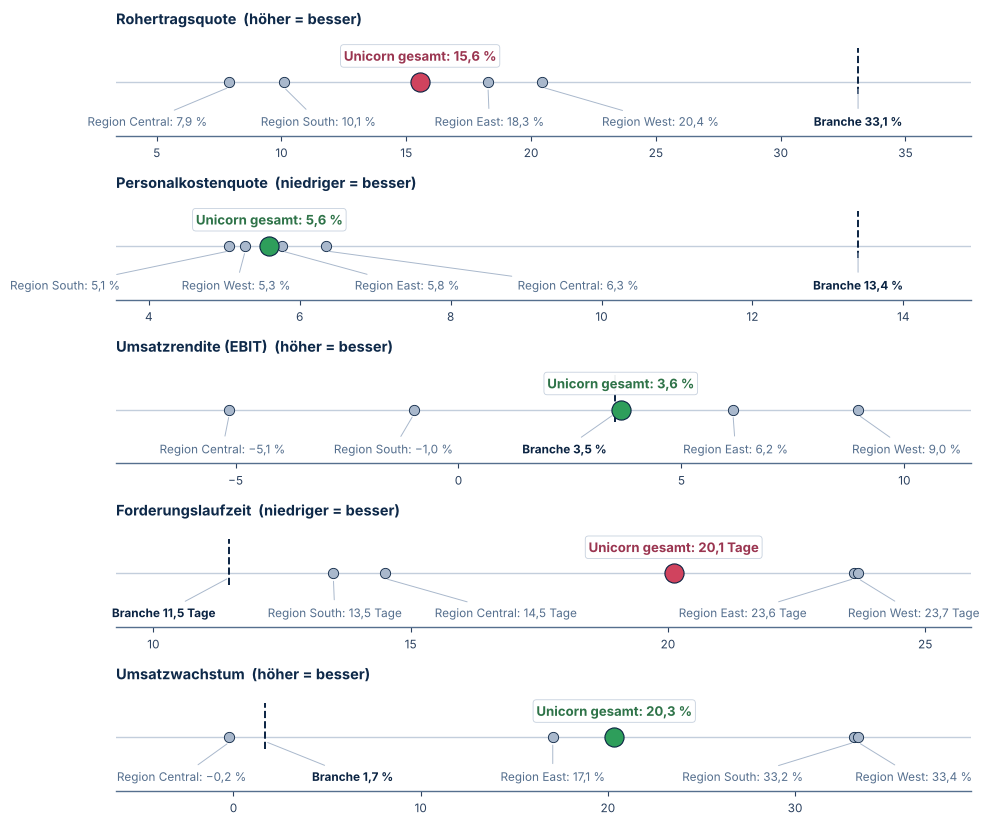
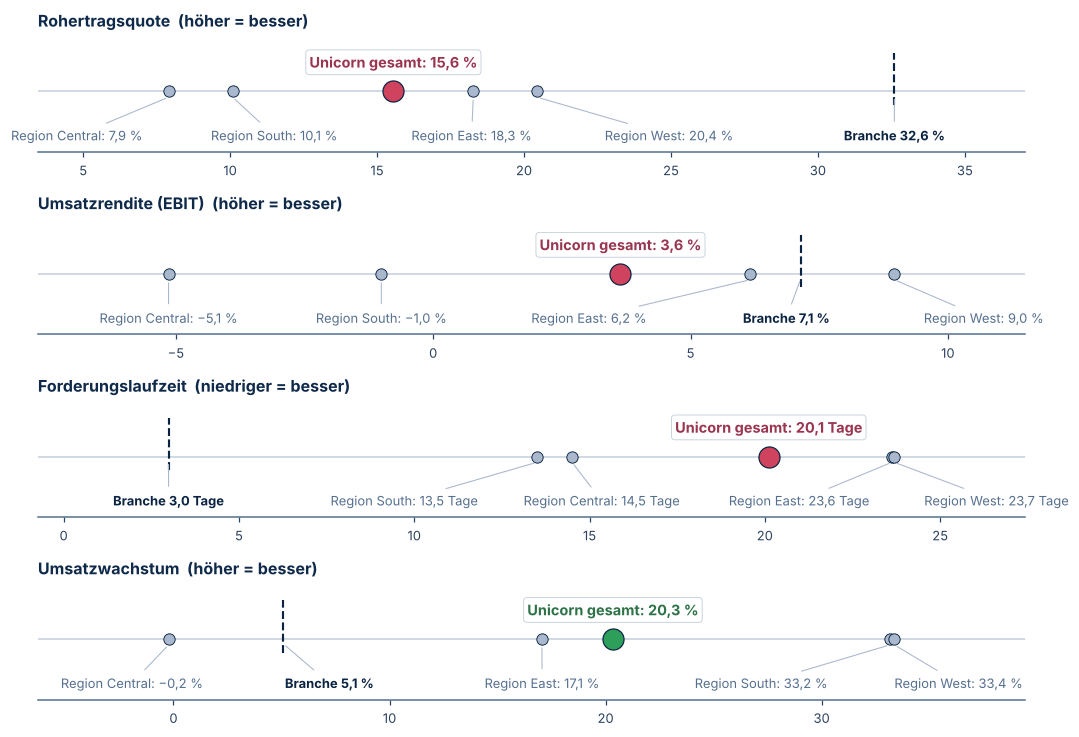
Benchmark: US-Einzelhandel (U.S. Census Bureau) statt deutscher Einzelhandel
Unicorn ist ein US-Händler, der Vergleich kommt jetzt aus dem Annual Retail Trade
Survey 2018 (Einzelhandel ohne Autohandel), gleiche Jahre wie die Daten (2015-2018).
Kennzahlen: Rohertragsquote, Umsatzrendite (Rohertrag - Betriebskosten), Forderungs-
laufzeit, Umsatzwachstum. Die Personalkostenquote entfällt, weil der Survey sie nicht
jährlich veröffentlicht. App-Texte, Tests, README, Kennzahlen-Doku und Benchmark-Bilder
angepasst.

Claude-Session: https://claude.ai/code/session_0162dXhNYju1JhCPYcZMk4fs

diff --git a/app.py b/app.py
@@ -256,10 +256,10 @@ def startseite(zug: dict):
            f"EBIT {L.geld(pf.loc[sw, 'ebit'])}, cash {L.geld(pf.loc[sw, 'kontostand'])}, down to "
            f"{L.geld(pf.loc[sw, 'liq_min'])} within 13 weeks.")),
         (T("Kunden zahlen langsam", "Customers pay slowly"),
-         T(f"Die Forderungslaufzeit liegt bei {L.zahl(dso.gesamt, 1)} Tagen, der Einzelhandel schafft "
-           f"{L.zahl(dso.branche, 1)} Tage (Bundesbank). Einzelne Geschäftskunden zahlen zuletzt 30–60 Tage später.",
+         T(f"Die Forderungslaufzeit liegt bei {L.zahl(dso.gesamt, 1)} Tagen, der US-Einzelhandel schafft "
+           f"{L.zahl(dso.branche, 1)} Tage (U.S. Census Bureau). Einzelne Geschäftskunden zahlen zuletzt 30–60 Tage später.",
            f"Days sales outstanding are {L.zahl(dso.gesamt, 1)} days vs. {L.zahl(dso.branche, 1)} days for "
-           f"German retail (Bundesbank). Some business customers recently pay 30–60 days later.")),
+           f"US retail (U.S. Census Bureau). Some business customers recently pay 30–60 days later.")),
     ]
     for spalte, (titel, text) in zip(c, karten):
         spalte.markdown(f'<div class="kachel" style="border-color:{ORANGE}"><div class="wert" style="white-space:normal;'
@@ -331,12 +331,12 @@ def startseite(zug: dict):
         "- **Daten:** fiktiver Übungsdatensatz (Tableau Sample Superstore, im Masterschool-Kurs als SQL-Datenbank "
         "„Unicorn“), 9.997 Auftragspositionen 2015–2018. Plan, Fixkosten und Zahlungen sind dazu simuliert.\n"
         "- **Werkzeuge:** SQL, Python, pandas, matplotlib, Streamlit; Power BI Desktop per DAX (lokal); automatische Tests mit pytest\n"
-        "- **Branchenwerte:** Deutsche Bundesbank, Jahresabschlussstatistik Einzelhandel\n"
+        "- **Branchenwerte:** U.S. Census Bureau, Annual Retail Trade Survey (US-Einzelhandel)\n"
         "- **Datenschutz:** Rollen mit Passwort-Hash, Pseudonymisierung der Kundennamen, in der Demo wird nichts gespeichert",
         "- **Data:** fictional training dataset (Tableau Sample Superstore, used as the SQL database “Unicorn” in the "
         "Masterschool course), 9,997 order lines 2015–2018. Plan, fixed costs and payments are simulated on top.\n"
         "- **Tools:** SQL, Python, pandas, matplotlib, Streamlit; Power BI Desktop via DAX (local); automated tests with pytest\n"
-        "- **Industry values:** Deutsche Bundesbank, financial statements statistics for retail\n"
+        "- **Industry values:** U.S. Census Bureau, Annual Retail Trade Survey (US retail)\n"
         "- **Privacy:** roles with password hashing, customer-name pseudonymisation, nothing is stored in the demo"))
     st.caption(T("Projekt von Denise Tirrel · Alle Unternehmens- und Kundendaten sind fiktiv.",
                  "Project by Denise Tirrel · All company and customer data are fictional."))
@@ -1231,10 +1231,10 @@ def benchmark_seite():
         namen = {m: f"Region {m}" for m in L.mandanten(D_GESAMT)}
         kopf("Unicorn · " + T("Vergleich", "Comparison"), "Benchmark")
     von = (s - pd.DateOffset(months=12) + pd.Timedelta(days=1))
-    st.caption(T(f"{name}: letzte 12 Monate ({L.datum(von)}–{L.datum(s)}) gegen den deutschen Einzelhandel "
-                 f"{b['jahr']} (Bundesbank) und gegen " + ("die anderen Mandanten (anonym)." if MANDANT else "die vier Regionen."),
-                 f"{name}: last 12 months ({L.datum(von)}–{L.datum(s)}) vs. German retail {b['jahr']} "
-                 f"(Deutsche Bundesbank) and vs. " + ("the other clients (anonymised)." if MANDANT else "the four regions.")))
+    st.caption(T(f"{name}: letzte 12 Monate ({L.datum(von)}–{L.datum(s)}) gegen den US-Einzelhandel "
+                 f"{b['jahr']} (U.S. Census Bureau) und gegen " + ("die anderen Mandanten (anonym)." if MANDANT else "die vier Regionen."),
+                 f"{name}: last 12 months ({L.datum(von)}–{L.datum(s)}) vs. US retail {b['jahr']} "
+                 f"(U.S. Census Bureau) and vs. " + ("the other clients (anonymised)." if MANDANT else "the four regions.")))
     if s.year != b["jahr"]:
         st.info(T(f"Für {s.year} liegen keine passenden Branchenwerte vor; verglichen wird mit {b['jahr']}.",
                   f"No industry values are available for {s.year}; comparing with {b['jahr']}."), icon="ℹ")
@@ -1261,35 +1261,32 @@ def benchmark_seite():
     with st.expander(T("Woher kommen die Branchenwerte, und wie vergleichbar ist das?",
                        "Where do the industry values come from, and how comparable are they?")):
         st.markdown(T(
-            f"**Quelle:** {L.BRANCHE_QUELLE}. Hochgerechnete Werte für alle Unternehmen der Branche.  \n"
-            "**Rohertragsquote:** bei uns (Umsatz − Wareneinsatz) / Umsatz; Branche: 100 % − Materialaufwand "
-            "(in % der Gesamtleistung).  \n"
-            "**Personalkostenquote:** Personalkosten / Umsatz. Achtung: Unicorn ist inhabergeführt, der "
-            "Unternehmerlohn fehlt in den Personalkosten. Die Quote sieht dadurch besser aus, als sie ist.  \n"
-            "**Umsatzrendite:** bei uns EBIT / Umsatz, Branche: Jahresergebnis vor Gewinnsteuern / Umsatz. "
-            "Auch hier fehlt bei uns der Unternehmerlohn.  \n"
-            "**Forderungslaufzeit:** offene Forderungen am Stichtag / Umsatz × 365; Branche: Forderungen aus "
-            "Lieferungen und Leistungen / Umsatz × 365.  \n"
+            f"**Quelle:** {L.BRANCHE_QUELLE}. Hochgerechnete Werte für alle US-Einzelhändler ohne "
+            "Autohandel, im selben Zeitraum wie die Unicorn-Daten (2015–2018).  \n"
+            "**Rohertragsquote:** bei uns (Umsatz − Wareneinsatz) / Umsatz; Branche: Gross margin in % vom Umsatz.  \n"
+            "**Umsatzrendite:** bei uns EBIT / Umsatz; Branche: Rohertragsquote − Betriebskosten / Umsatz "
+            "(operative Marge). Bei uns fehlt der Unternehmerlohn, die Quote sieht dadurch besser aus, als sie ist.  \n"
+            "**Forderungslaufzeit:** offene Forderungen am Stichtag / Umsatz × 365; Branche: Forderungen am "
+            "Jahresende / Umsatz × 365. Im US-Einzelhandel zahlen fast alle Kunden sofort per Karte; Unicorn hat "
+            "dagegen Geschäftskunden mit 14 bzw. 30 Tagen Zahlungsziel.  \n"
             "**Umsatzwachstum:** letzte 12 Monate gegen die 12 Monate davor; Branche: Jahresumsatz gegen Vorjahr.  \n\n"
-            "**Grenzen:** Unicorn ist ein US-Händler mit Werten in Dollar, die Branche ist der deutsche "
-            "Einzelhandel in Euro. Quoten sind trotzdem vergleichbar, Beträge nicht. Fixkosten sind bei den "
-            "Mandanten per Umlage verteilt; Unterschiede in Personal- und Fixkostenquote kommen daher nur aus "
-            "unterschiedlicher Planerfüllung. Plan, Fixkosten und Zahlungsziele sind simuliert.",
-            f"**Source:** {L.BRANCHE_QUELLE} (Deutsche Bundesbank, financial statements statistics, extrapolated "
-            "figures for all companies in German retail excl. motor vehicles).  \n"
-            "**Gross margin:** ours (revenue − cost of goods) / revenue; industry: 100% − cost of materials "
-            "(% of total output).  \n"
-            "**Staff cost ratio:** staff costs / revenue. Note: Unicorn is owner-managed and the owner's salary "
-            "is not in staff costs, so the ratio looks better than it is.  \n"
-            "**EBIT margin:** ours EBIT / revenue; industry: profit before income taxes / revenue. The owner's "
-            "salary is missing here too.  \n"
-            "**Days sales outstanding:** open receivables at the reporting date / revenue × 365; industry: trade "
-            "receivables / revenue × 365.  \n"
-            "**Revenue growth:** last 12 months vs. the 12 months before; industry: annual revenue vs. prior year.  \n\n"
-            "**Limits:** Unicorn is a US retailer reporting in dollars; the industry is German retail in euros. "
-            "Ratios are still comparable, amounts are not. Fixed costs are allocated to clients by planned revenue, "
-            "so differences in staff and fixed-cost ratios only reflect plan attainment. Plan, fixed costs and "
-            "payment terms are simulated."))
+            "**Grenzen:** Die Branche umfasst große und kleine Händler, Unicorn ist ein kleiner Online-Händler. "
+            "Betriebskosten und Forderungen erhebt der Census nur für Firmen mit Angestellten. Eine "
+            "Personalkostenquote veröffentlicht der Survey nicht jährlich, deshalb fehlt sie hier. Fixkosten "
+            "sind bei den Mandanten per Umlage verteilt. Plan, Fixkosten und Zahlungsziele sind simuliert.",
+            f"**Source:** {L.BRANCHE_QUELLE}. Estimates for all US retailers excl. motor vehicle dealers, "
+            "for the same period as the Unicorn data (2015–2018).  \n"
+            "**Gross margin:** ours (revenue − cost of goods) / revenue; industry: gross margin as % of sales.  \n"
+            "**EBIT margin:** ours EBIT / revenue; industry: gross margin − operating expenses / sales "
+            "(operating margin). The owner's salary is missing on our side, so the ratio looks better than it is.  \n"
+            "**Days sales outstanding:** open receivables at the reporting date / revenue × 365; industry: "
+            "year-end accounts receivable / sales × 365. In US retail almost every customer pays by card at once; "
+            "Unicorn also has business customers with 14 or 30 days payment terms.  \n"
+            "**Revenue growth:** last 12 months vs. the 12 months before; industry: annual sales vs. prior year.  \n\n"
+            "**Limits:** The industry covers large and small retailers, Unicorn is a small online retailer. "
+            "The Census collects operating expenses and receivables only for firms with paid employees. The survey "
+            "does not publish a staff cost ratio every year, so it is left out here. Fixed costs are allocated "
+            "to clients by planned revenue. Plan, fixed costs and payment terms are simulated."))
 
 
 # ------------------------------------------------------------------ Schritt 0: Daten aufbereiten

diff --git a/logik.py b/logik.py
@@ -644,37 +644,39 @@ def mandant_daten(d: Daten, region: str) -> Daten:
 
 
 # ---------------------------------------------------------------- Schritt 3: Benchmark
-# Branchenwerte: Deutsche Bundesbank, Jahresabschlussstatistik (Hochgerechnete Angaben),
-# Dezember 2025, Abschnitt 6c „Einzelhandel (ohne Handel mit Kraftfahrzeugen)“, S. 83–85.
-# Rohertragsquote = 100 % − Materialaufwand (% der Gesamtleistung).
-# Forderungslaufzeit = Forderungen aus L+L / Umsatz · 365. Wachstum = Umsatz gegen Vorjahr.
-BRANCHE_QUELLE = ("Deutsche Bundesbank, Jahresabschlussstatistik (Hochgerechnete Angaben), Dez. 2025, "
-                  "Einzelhandel ohne Kfz (WZ 47), S. 83–85")
-BRANCHE_ROH = {  # Jahr: (Umsatz Mrd €, Materialaufwand %, Personalaufwand %, Ergebnis vor Steuern % Umsatz, Forderungen L+L Mrd €)
-    2015: (521.4, 67.1, 13.6, 3.8, 15.3),
-    2016: (541.4, 66.7, 13.5, 3.9, 16.2),
-    2017: (563.1, 66.4, 13.6, 3.9, 17.5),
-    2018: (572.6, 66.9, 13.4, 3.5, 18.0),
+# Branchenwerte: U.S. Census Bureau, Annual Retail Trade Survey (ARTS) 2018, veröffentlicht Feb. 2020,
+# Zeile „Retail ... total (excl. motor vehicle and parts dealers)“ der Tabellen sales.xls, gmper.xls,
+# exp.xls und arr.xls (https://www.census.gov/data/tables/2018/econ/arts/annual-report.html).
+# Rohertragsquote = Gross margin as a percentage of sales.
+# Operative Marge = Rohertragsquote − Betriebskosten / Umsatz (Näherung für EBIT / Umsatz).
+# Forderungslaufzeit = Forderungen am Jahresende / Umsatz · 365. Wachstum = Umsatz gegen Vorjahr.
+# Betriebskosten und Forderungen enthalten nur Firmen mit Angestellten, der Umsatz auch Firmen ohne.
+BRANCHE_QUELLE = ("U.S. Census Bureau, Annual Retail Trade Survey 2018 (Feb. 2020), "
+                  "Retail excl. motor vehicle and parts dealers")
+BRANCHE_ROH = {  # Jahr: (Umsatz Mio $, Rohertrag % Umsatz, Betriebskosten Mio $, Forderungen Mio $)
+    2015: (3_631_881, 32.1, 907_367, 33_089),
+    2016: (3_712_344, 32.5, 949_787, 33_734),
+    2017: (3_880_784, 32.5, 1_000_531, 33_123),
+    2018: (4_078_147, 32.6, 1_038_256, 33_434),
 }
-BRANCHE_VJ_UMSATZ = {2015: 507.4}   # Umsatz 2014 (Mrd €), Basis für das Wachstum 2015
+BRANCHE_VJ_UMSATZ = {2015: 3_618_589}   # Umsatz 2014 (Mio $), Basis für das Wachstum 2015
 
 # Kennzahl: (Titel, Einheit, höher ist besser)
 BENCH_KZ = {
     "rohertrag": ("Rohertragsquote", "%", True),
-    "personal": ("Personalkostenquote", "%", False),
     "rendite": ("Umsatzrendite (EBIT)", "%", True),
     "dso": ("Forderungslaufzeit", "Tage", False),
     "wachstum": ("Umsatzwachstum", "%", True),
 }
-BENCH_KZ_EN = {"rohertrag": "Gross margin", "personal": "Staff cost ratio", "rendite": "EBIT margin",
+BENCH_KZ_EN = {"rohertrag": "Gross margin", "rendite": "EBIT margin",
                "dso": "Days sales outstanding", "wachstum": "Revenue growth"}
 
 
 def branche(jahr: int) -> dict:
     j = min(max(jahr, min(BRANCHE_ROH)), max(BRANCHE_ROH))
-    u, mat, pers, erg, ford = BRANCHE_ROH[j]
+    u, roh, kosten, ford = BRANCHE_ROH[j]
     u_vj = BRANCHE_ROH[j - 1][0] if j - 1 in BRANCHE_ROH else BRANCHE_VJ_UMSATZ[j]
-    return {"jahr": j, "rohertrag": 100 - mat, "personal": pers, "rendite": erg,
+    return {"jahr": j, "rohertrag": roh, "rendite": roh - kosten / u * 100,
             "dso": ford / u * 365, "wachstum": (u / u_vj - 1) * 100}
 
 
@@ -690,7 +692,6 @@ def bench_kennzahlen(d: Daten, s: pd.Timestamp) -> dict:
     return {
         "umsatz": umsatz,
         "rohertrag": (umsatz - u.wareneinsatz.sum()) / umsatz * 100,
-        "personal": f.loc[f.kostenart == "Personal", "ist"].sum() / umsatz * 100,
         "rendite": (u.db1.sum() - f.ist.sum()) / umsatz * 100,
         "dso": forderungen / umsatz * 365,
         # Wachstum nur, wenn die 12 Vergleichsmonate vollständig in den Daten liegen

diff --git a/tests/test_cockpit.py b/tests/test_cockpit.py
@@ -90,12 +90,14 @@ def test_portfolio_2018(d):
 
 def test_benchmark_2018(d):
     bm = L.benchmark(d, S).set_index("kz")
-    assert bm.loc["rohertrag", "branche"] == pytest.approx(33.1, abs=0.01)
-    assert bm.loc["dso", "branche"] == pytest.approx(11.47, abs=0.01)
+    assert bm.loc["rohertrag", "branche"] == pytest.approx(32.6, abs=0.01)
+    assert bm.loc["dso", "branche"] == pytest.approx(2.99, abs=0.01)
     assert bm.loc["dso", "gesamt"] == pytest.approx(20.11, abs=0.01)
     assert bm.loc["rendite", "Central"] == pytest.approx(-5.14, abs=0.01)
+    assert bm.loc["rendite", "branche"] == pytest.approx(7.14, abs=0.01)
+    assert set(bm.index) == {"rohertrag", "rendite", "dso", "wachstum"}
     besser = sum((bm.gesamt > bm.branche) == bm.hoch_gut)
-    assert besser == 3
+    assert besser == 1
 
 
 def test_benchmark_ohne_volles_vorjahr(d):

diff --git a/README.de.md b/README.de.md
@@ -31,7 +31,7 @@ als Datenquelle · zweisprachig (Deutsch/Englisch) · 21 automatische Tests.
 |---|---|
 | 💸 Rabatte fressen die Marge | Umsatz **+4,8 %** gegen Plan, DB I **−6,3 %**. Aufträge mit über 20 % Rabatt bringen 14,7 % des Umsatzes und **−47.575 $** DB I. |
 | 📉 Central rutscht ins Minus | Region Central verfehlt den Plan um **7,6 %**. Als eigener Mandant: EBIT −7.564 $, Konto −10.818 $, in 13 Wochen bis −14.265 $. |
-| ⏳ Kunden zahlen langsam | Forderungslaufzeit **20,1 Tage**, der deutsche Einzelhandel schafft 11,5 Tage (Bundesbank). |
+| ⏳ Kunden zahlen langsam | Forderungslaufzeit **20,1 Tage**, der US-Einzelhandel schafft 3,0 Tage (U.S. Census Bureau). |
 
 ![Umsatz je Monat gegen Plan](docs/umsatz_de.png)
 ![DB-I-Brücke](docs/wasserfall_de.png)
@@ -82,8 +82,10 @@ JSON-Dateien des Projekts entsprechen den Schemas von Microsoft.
   Versand ist eine Annahme je Versandart.
 - **Umlage.** Fixkosten, Entnahme und Startkasse sind Firmenwerte und werden im Mandanten-Modus nach Planumsatz
   verteilt; die vier Mandanten ergeben zusammen genau die Firma (getestet).
-- **Benchmark.** US-Händler gegen deutschen Einzelhandel: Quoten vergleichbar, Beträge nicht. Der Unternehmerlohn
-  fehlt, Personalquote und Umsatzrendite sehen dadurch besser aus, als sie sind.
+- **Benchmark.** US-Einzelhandel (U.S. Census Bureau, 2015–2018), also gleiches Land und gleiche Jahre wie die Daten.
+  Er umfasst große und kleine Händler, die meisten mit Kartenzahlung, daher die große Lücke bei der Forderungslaufzeit.
+  Der Unternehmerlohn fehlt, die Umsatzrendite sieht dadurch besser aus, als sie ist. Eine jährliche
+  Personalkostenquote veröffentlicht der Survey nicht, deshalb fehlt diese Kennzahl.
 - **Wachstum** erscheint erst, wenn 12 volle Vergleichsmonate vorliegen (ab 12/2016).
 - **Online-Demo.** Niemand speichert etwas für andere: Maßnahmen gelten nur in der Sitzung, Schwellen sind fest,
   Power BI und KI werden durch Erklärungen und regelbasierte Beispielantworten ersetzt
@@ -101,7 +103,7 @@ JSON-Dateien des Projekts entsprechen den Schemas von Microsoft.
 - **Für Besucher mit zwei Minuten bauen.** Drei Erkenntnisse auf der Startseite, Ein-Klick-Anmeldung und ein kurzer
   Rundgang bringen mehr als eine weitere Funktion.
 
-**Nächste Schritte:** im Rückblick zeigen, wie gut die Liquiditätsprognose war · Branchenvergleich mit US-Handelszahlen ·
+**Nächste Schritte:** im Rückblick zeigen, wie gut die Liquiditätsprognose war · Branchenvergleich nur mit Online-Händlern ·
 Montags-Briefing als PDF · Anbindung an einen echten Buchhaltungsexport.
 
 ## Für Entwickler
@@ -274,7 +276,7 @@ den Abgleich SQLite gegen Power BI, die Pseudonymisierung und die Zugänge. Schl
 | Maßnahmen | Liste mit Verantwortlichem, Fälligkeit, Status und erwartetem EBIT-Effekt (gespeichert in `massnahmen.sqlite`) |
 | Frag dein Cockpit | KI beantwortet Fragen zu den Zahlen (braucht `ANTHROPIC_API_KEY`) |
 | Montags-Briefing | fertiger E-Mail-Text, als Entwurf im E-Mail-Programm öffnen oder herunterladen |
-| Benchmark | 5 Kennzahlen (letzte 12 Monate) gegen den deutschen Einzelhandel (Bundesbank) und gegen die anderen Mandanten bzw. Regionen |
+| Benchmark | 4 Kennzahlen (letzte 12 Monate) gegen den US-Einzelhandel (U.S. Census Bureau) und gegen die anderen Mandanten bzw. Regionen |
 | Mandanten-Übersicht | nur extern: alle Mandanten mit Ampel, dringendstem Signal und Button „Öffnen“ |
 
 ## Externer Modus (Schritt 3)
@@ -291,10 +293,12 @@ den Abgleich SQLite gegen Power BI, die Pseudonymisierung und die Zugänge. Schl
 
 ## Branchenwerte
 
-Deutsche Bundesbank, Jahresabschlussstatistik (Hochgerechnete Angaben), Dezember 2025, Einzelhandel ohne Kfz
-(WZ 47), S. 83–85. Werte 2015–2018 stehen in `logik.py` (`BRANCHE_ROH`). Rohertragsquote = 100 % − Materialaufwand,
-Forderungslaufzeit = Forderungen aus L+L / Umsatz · 365. Vergleich nur als Übung: Unicorn ist ein US-Händler,
-der Unternehmerlohn fehlt in den Personalkosten.
+U.S. Census Bureau, *Annual Retail Trade Survey 2018* (Februar 2020), Einzelhandel ohne Autohandel
+(„excl. motor vehicle and parts dealers“), Tabellen Umsatz, Rohertrag in %, Betriebskosten und Forderungen
+(<https://www.census.gov/data/tables/2018/econ/arts/annual-report.html>). Werte 2015–2018 stehen in `logik.py`
+(`BRANCHE_ROH`). Umsatzrendite der Branche = Rohertragsquote − Betriebskosten / Umsatz,
+Forderungslaufzeit = Forderungen am Jahresende / Umsatz · 365. Betriebskosten und Forderungen erhebt der Census nur
+für Firmen mit Angestellten. Bei Unicorn fehlt der Unternehmerlohn.
 
 Oben links wählst du den **Stichtag** (Monatsende 01/2016 bis 12/2018). Alle Werte gelten
 für das Jahr bis zu diesem Stichtag. Bei Stichtagen vor 10/2018 zeigt die Liquiditätsseite

diff --git a/README.md b/README.md
@@ -30,7 +30,7 @@ data source · bilingual (German / English) · 21 automated tests.
 |---|---|
 | 💸 Discounts eat the margin | Revenue is **+4.8 %** vs. plan, contribution margin **−6.3 %**. Orders with more than 20 % discount bring 14.7 % of revenue and **−$47,575** of margin. |
 | 📉 Central slides into the red | Region Central misses plan by **7.6 %**. As a separate client: EBIT −$7,564, bank balance −$10,818, falling to −$14,265 within 13 weeks. |
-| ⏳ Customers pay slowly | Days sales outstanding **20.1 days** vs. 11.5 days for German retail (Deutsche Bundesbank). |
+| ⏳ Customers pay slowly | Days sales outstanding **20.1 days** vs. 3.0 days for US retail (U.S. Census Bureau). |
 
 ![Monthly revenue vs. plan](docs/umsatz_en.png)
 ![Contribution margin bridge](docs/wasserfall_en.png)
@@ -97,7 +97,7 @@ project's JSON files validate against Microsoft's schemas.
 - **Early warning** with adjustable thresholds; every signal can become an **action** with owner and due date
 - **What-if**: discount cap, sales volume, fixed costs, payment terms → EBIT bridge, break-even, cash impact
 - **Client mode for advisors**: four regions act as four clients, fixed costs allocated by planned revenue,
-  client overview with traffic lights, anonymised **industry benchmark** (Deutsche Bundesbank)
+  client overview with traffic lights, anonymised **industry benchmark** (US retail, U.S. Census Bureau)
 - **Roles** (advisor, owner, client) with password hashing; **pseudonymisation** of customer names
 - **Monday briefing** as a ready e-mail draft; **AI question field** (Claude API, fact sheet only, no raw data)
 - **Power BI Desktop** as an alternative data source (local, Windows), checked row by row against SQLite
@@ -111,8 +111,9 @@ project's JSON files validate against Microsoft's schemas.
   cost of goods and shipping is an assumption by shipping mode.
 - **Cost allocation.** Fixed costs, owner drawings and opening cash are company values. In client mode they are
   allocated by planned revenue; the four clients add up exactly to the company (tested).
-- **Benchmark.** Unicorn is a US retailer, the benchmark is German retail. Ratios are comparable, amounts are not.
-  The owner's salary is missing from staff costs, so staff cost ratio and EBIT margin look better than they are.
+- **Benchmark.** US retail (U.S. Census Bureau, 2015–2018), the same country and years as the data. It covers large
+  and small retailers, most of them paid by card at once, so the DSO gap is large. The owner's salary is missing on our
+  side, so the EBIT margin looks better than it is. The survey has no yearly staff cost ratio, so that KPI is left out.
 - **Growth** is only shown once 12 full comparison months exist (from Dec 2016).
 - **Online demo.** Nothing is stored for other visitors: actions live in the session only, thresholds are fixed,
   Power BI and the AI field are replaced by explanations and rule-based example answers.
@@ -128,7 +129,7 @@ project's JSON files validate against Microsoft's schemas.
 - **Design for a two-minute visitor.** Three findings on the start page, one-click logins and a short tour matter more
   than another feature.
 
-**Next steps:** show how accurate the cash forecast was in hindsight · a US retail benchmark to match the data ·
+**Next steps:** show how accurate the cash forecast was in hindsight · a benchmark for online retailers only ·
 the Monday briefing as a PDF · a connector for a real accounting export.
 
 ## Run locally
@@ -174,8 +175,8 @@ on every push.
 | `docs/` | metric definitions, data model, charts |
 | `tests/` | automated tests |
 
-Industry values: Deutsche Bundesbank, *Jahresabschlussstatistik (Hochgerechnete Angaben)*, Dec 2025, retail excl.
-motor vehicles (WZ 47), pp. 83–85.
+Industry values: U.S. Census Bureau, *Annual Retail Trade Survey 2018* (Feb 2020), retail excl. motor vehicle and parts dealers; tables sales, gross margin %, operating expenses and accounts receivable
+(<https://www.census.gov/data/tables/2018/econ/arts/annual-report.html>).
 
 ## Privacy
 

diff --git a/docs/kennzahlen.md b/docs/kennzahlen.md
@@ -29,14 +29,13 @@ Die Spalte **SQL** nennt die Abfrage im Ordner [`sql/`](../sql), die dieselbe Za
 | **Break-even-Umsatz** | Fixkosten / Marge | 12 Monate | – |
 | **Sicherheitsabstand** | (Umsatz − Break-even) / Umsatz | 12 Monate | – |
 
-**Benchmark** (letzte 12 Monate, gegen Deutsche Bundesbank, Einzelhandel ohne Kfz, WZ 47):
+**Benchmark** (letzte 12 Monate, gegen U.S. Census Bureau, Annual Retail Trade Survey, Einzelhandel ohne Autohandel):
 
 | Kennzahl | Unicorn | Branche |
 |---|---|---|
-| Rohertragsquote | (Umsatz − Wareneinsatz) / Umsatz | 100 % − Materialaufwand |
-| Personalkostenquote | Personalkosten / Umsatz | Personalaufwand / Gesamtleistung |
-| Umsatzrendite | EBIT / Umsatz | Ergebnis vor Steuern / Umsatz |
-| Forderungslaufzeit | wie oben | Forderungen L+L / Umsatz × 365 |
+| Rohertragsquote | (Umsatz − Wareneinsatz) / Umsatz | Rohertrag in % vom Umsatz |
+| Umsatzrendite | EBIT / Umsatz | Rohertragsquote − Betriebskosten / Umsatz |
+| Forderungslaufzeit | wie oben | Forderungen am Jahresende / Umsatz × 365 |
 | Umsatzwachstum | Umsatz / Umsatz der 12 Monate davor − 1 (erst bei 12 vollen Vergleichsmonaten) | Umsatz / Vorjahr − 1 |
 
 **Mandanten-Modus:** Die vier Regionen sind vier Mandanten. Umsatz, DB I und Rechnungen gehören zur Region;

diff --git a/docs/metrics.md b/docs/metrics.md
@@ -29,14 +29,13 @@ Column **SQL** names the query in [`sql/`](../sql) that computes the same figure
 | **Break-even revenue** | fixed costs / margin | 12 months | – |
 | **Margin of safety** | (revenue − break-even) / revenue | 12 months | – |
 
-**Benchmark** (last 12 months, against Deutsche Bundesbank, retail excl. motor vehicles, WZ 47):
+**Benchmark** (last 12 months, against U.S. Census Bureau, Annual Retail Trade Survey, retail excl. motor vehicle dealers):
 
 | Metric | Unicorn | Industry |
 |---|---|---|
-| Gross margin | (revenue − cost of goods) / revenue | 100 % − cost of materials |
-| Staff cost ratio | staff costs / revenue | staff costs / total output |
-| EBIT margin | EBIT / revenue | result before taxes / revenue |
-| DSO | as above | trade receivables / revenue × 365 |
+| Gross margin | (revenue − cost of goods) / revenue | gross margin as % of sales |
+| EBIT margin | EBIT / revenue | gross margin − operating expenses / sales |
+| DSO | as above | year-end accounts receivable / sales × 365 |
 | Revenue growth | revenue / revenue of the prior 12 months − 1 (only with 12 full comparison months) | revenue / prior year − 1 |
 
 **Client mode:** the four regions act as four clients. Revenue, CM I and invoices belong to the region; fixed costs,
